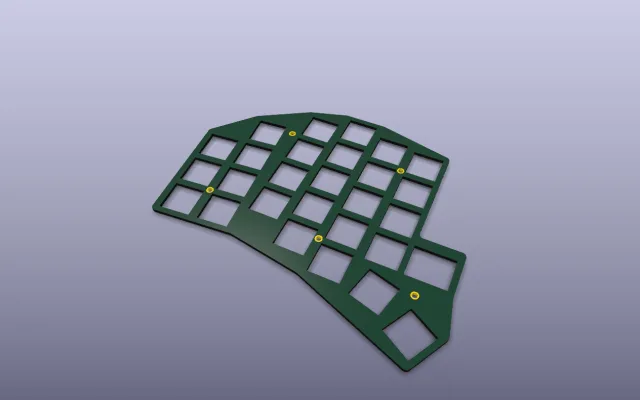
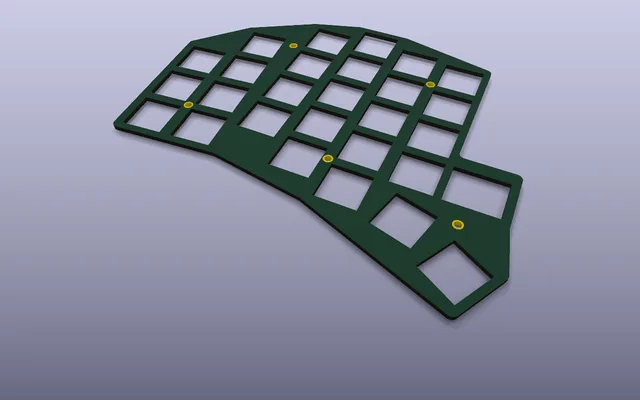
render board thumbnails with one look

Changed region(s): [[0.1562, 0.06, 0.8438, 0.93]]

diff --git a/library/render.py b/library/render.py
@@ -1,13 +1,15 @@
 """Prerender fetched boards into deploy/etch-app/world/boards/<slug>/ (board.glb, thumb.webp, parts.json, meta.json).
 
     python3 library/render.py [--limit N] [--only slug ...] [--workers 3] [--force] [--budget-mb 150]
+    python3 library/render.py --thumbs-only [--only slug ...] [--workers 4]   # thumbnails only
 
 Per board:
   1. kicad-cli pcb export glb (library STEP models, copper, mask, silk; nodes named by refdes)
   2. library/optimize.mjs: dedup + join primitives per material + quantisation + meshopt, no simplification
      (PLAN.md rule 2), with the scene graph kept (no flatten/join/instancing), so every footprint stays its
      own named node; boards over --max-glb-mb (20) after that are skipped, never simplified
-  3. kicad-cli pcb render (raytraced, perspective, 3/4 view) -> 1280x800 PNG -> 640x400 WebP
+  3. kicad-cli pcb render (raytraced, perspective, 3/4 view, one fixed look; zoom/pan from basic-quality probes so
+     every board fills the same share of the frame) -> 1280x800 PNG -> 640x400, +-15% exposure trim -> WebP
   4. parts.json from the .kicad_pcb (+ schematic descriptions), positions measured in the GLB frame
   5. meta.json records models {total, resolved, hidden, missing: [{ref, path, reason}]} (from fetch.py's
      models.json plus every model kicad-cli could not load) and identical (PLAN.md rule 4)
@@ -20,6 +22,7 @@ from __future__ import annotations
 import argparse
 import concurrent.futures as cf
 import datetime as dt
+import json
 import os
 import re
 import shutil
@@ -29,8 +32,12 @@ import time
 from pathlib import Path
 from typing import Any
 
+import numpy as np
+from PIL import Image, ImageFilter
+
 from common import LIB_DIR, BOARDS_JSON, scrub, RENDER_LOG, SRC, WORK, WORLD, kicad_cli, load_json, log, save_json
 from pcbinfo import board_info, footprint_models, glb_bounds, glb_nodes
+from thumbcheck import board_mask, luminance, measure
 
 GLB_FLAGS = [
     "--subst-models",
@@ -91,17 +98,91 @@ def optimize(raw: Path, out: Path, max_bytes: int = MAX_BYTES) -> tuple[bool, st
     return True, ""
 
 
+# One look for every thumbnail: a fixed preset (follow_pcb_editor, read from a canonical .kicad_prl with every
+# layer visible, so no project's own plot or visibility settings leak in), explicit lights, the board's own
+# stackup colours, the same floor/shadow, perspective and camera elevation. Long boards turn 90 degrees about Z
+# so the long axis runs across the frame.
+THUMB_LOOK = ["--side", "top", "--perspective", "--preset", "follow_pcb_editor", "--use-board-stackup-colors",
+              "--background", "opaque", "--floor", "--light-top", "0.30", "--light-bottom", "0.10",
+              "--light-side", "0.17", "--light-camera", "0.22", "--light-side-elevation", "60"]
+THUMB_ROT = ("-40,0,-25", "-40,0,65")
+THUMB_FILL = 0.78    # board bbox / frame, on whichever axis binds
+THUMB_Y = 0.14       # target mean linear luminance of the board pixels
+THUMB_GAIN = 0.15    # exposure normalisation is clamped to +-15%
+PAN_X, PAN_Y = 0.049, -0.040  # image shift (fraction of width / height) per --pan unit at --zoom 1, measured
+CANON_PRL = {"board": {"visible_layers": "ffffffff_ffffffff_ffffffff_ffffffff", "visible_items": [
+    "vias", "footprint_text", "footprints_front", "footprints_back", "footprint_values", "footprint_references",
+    "tracks", "pads", "zones", "shapes", "bitmaps"], "active_layer_preset": ""},
+    "meta": {"filename": "board.kicad_prl", "version": 5}}
+
+
+def _frame(png: Path) -> Image.Image:
+    """Kicad-cli writes 1264x784 for a 1280x800 request; crop the backdrop to 16:10 so the resize keeps shape."""
+    im = Image.open(png).convert("RGB")
+    w, h = im.size
+    cw = min(w, round(h * 1.6))
+    ch = min(h, round(cw / 1.6))
+    x, y = (w - cw) // 2, (h - ch) // 2
+    return im.crop((x, y, x + cw, y + ch))
+
+
 def thumb(cli: Path, env: dict, pcb: Path, work: Path, out: Path, size_mm: list[float]) -> tuple[bool, str]:
+    # a scratch project: the board and its .kicad_pro (text variables), plus the canonical .kicad_prl
+    proj = work / "thumbproj"
+    shutil.rmtree(proj, ignore_errors=True)
+    proj.mkdir(parents=True)
+    (proj / "board.kicad_pcb").symlink_to(pcb.resolve())
+    if (pcb.parent / "board.kicad_pro").exists():
+        shutil.copy2(pcb.parent / "board.kicad_pro", proj / "board.kicad_pro")
+    (proj / "board.kicad_prl").write_text(json.dumps(CANON_PRL))
+    board = proj / "board.kicad_pcb"
+    rot = THUMB_ROT[1] if size_mm[1] > size_mm[0] * 1.25 else THUMB_ROT[0]
     png = work / "thumb.png"
-    png.unlink(missing_ok=True)
-    cmd = [str(cli), "pcb", "render", "-o", str(png), "--width", str(RENDER_W), "--height", str(RENDER_H),
-           "--side", "top", "--perspective", "--quality", "high", "--use-board-stackup-colors", "--background", "opaque",
-           "--rotate", "-40,0,65" if size_mm[1] > size_mm[0] * 1.25 else "-40,0,-25",  # long axis across the frame
-           "--zoom", "0.8", str(pcb)]
-    p = run(cmd, timeout=600, env=env)
-    if not png.exists():
-        return False, "render: " + (p.stderr or p.stdout)[-300:]
-    q = run(["cwebp", "-quiet", "-q", "82", "-resize", "640", "400", str(png), "-o", str(out)], timeout=120)
+
+    def render(quality: str, zoom: float, pan: tuple[float, float]) -> tuple[bool, str]:
+        png.unlink(missing_ok=True)
+        cmd = [str(cli), "pcb", "render", "-o", str(png), "--width", str(RENDER_W), "--height", str(RENDER_H),
+               *THUMB_LOOK, "--quality", quality, "--rotate", rot, "--zoom", f"{zoom:.4f}",
+               "--pan", f"{pan[0]:.4f},{pan[1]:.4f},0", str(board)]
+        p = run(cmd, timeout=600, env=env)
+        return png.exists(), (p.stderr or p.stdout)[-300:]
+
+    # framing: fast basic-quality probes, measured like the final image, set zoom and pan so the board's bbox
+    # fills THUMB_FILL of the binding axis, centred (the image shift per pan unit scales with zoom)
+    zoom, pan = 0.6, [0.0, 0.0]
+    for _ in range(3):
+        ok, err = render("basic", zoom, tuple(pan))
+        if not ok:
+            return False, "render: " + err
+        m = measure(_frame(png))
+        if m["px"] == 0:
+            break
+        pan[0] -= (m["cx"] - 0.5) / (PAN_X * zoom)
+        pan[1] -= (m["cy"] - 0.5) / (PAN_Y * zoom)
+        zoom = min(20.0, max(0.1, zoom * THUMB_FILL / max(m["fill"], 1e-3)))
+        if abs(m["fill"] - THUMB_FILL) < 0.01 and abs(m["cx"] - 0.5) < 0.01 and abs(m["cy"] - 0.5) < 0.01:
+            break
+    ok, err = render("high", zoom, tuple(pan))
+    if not ok:
+        return False, "render: " + err
+
+    # light exposure normalisation on the board pixels only (feathered mask), backdrop untouched
+    im = _frame(png).resize((640, 400), Image.LANCZOS)
+    rgb = np.asarray(im)
+    mask = board_mask(rgb)
+    if mask.any():
+        gain = float(np.clip(THUMB_Y / max(float(luminance(rgb)[mask].mean()), 1e-4), 1 - THUMB_GAIN, 1 + THUMB_GAIN))
+        a = np.asarray(Image.fromarray((mask * 255).astype(np.uint8)).filter(ImageFilter.GaussianBlur(1.2)),
+                       np.float32)[..., None] / 255
+        f = rgb.astype(np.float32) / 255
+        lin = np.where(f <= 0.04045, f / 12.92, ((f + 0.055) / 1.055) ** 2.4)
+        lin = np.clip(lin * (1 + (gain - 1) * a), 0, 1)
+        f = np.where(lin <= 0.0031308, lin * 12.92, 1.055 * lin ** (1 / 2.4) - 0.055)
+        im = Image.fromarray(np.round(f * 255).astype(np.uint8))
+    small = work / "thumb640.png"
+    im.save(small)
+    q = run(["cwebp", "-quiet", "-q", "82", str(small), "-o", str(out)], timeout=120)
+    shutil.rmtree(proj, ignore_errors=True)
     if q.returncode != 0 or not out.exists():
         return False, "cwebp: " + q.stderr[-200:]
     return True, ""
@@ -241,6 +322,26 @@ def render_board(b: dict, cli: Path, env: dict, kver: str, force: bool, max_byte
             "parts": len(parts), "missing_models": len(models["missing"]), "identical": identical}
 
 
+def rethumb(b: dict, cli: Path, env: dict) -> dict[str, Any]:
+    """--thumbs-only: re-render thumb.webp for an already rendered board; GLB, parts and meta stay as they are."""
+    slug = b["slug"]
+    out = WORLD / "boards" / slug
+    meta = load_json(out / "meta.json", {})
+    pcb = SRC / slug / "board.kicad_pcb"
+    if not meta or not pcb.exists():
+        return {"ok": False, "error": "not rendered yet"}
+    t0 = time.time()
+    work = WORK / (slug + "__thumb")
+    shutil.rmtree(work, ignore_errors=True)
+    work.mkdir(parents=True)
+    th = work / "thumb.webp"
+    ok, msg = thumb(cli, env, pcb, work, th, meta["size_mm"])
+    if ok:
+        shutil.copy2(th, out / "thumb.webp")
+    shutil.rmtree(work, ignore_errors=True)
+    return {"ok": ok, "error": msg, "seconds": round(time.time() - t0, 1)}
+
+
 def world_bytes() -> int:
     return sum(f.stat().st_size for f in WORLD.rglob("*") if f.is_file()) if WORLD.exists() else 0
 
@@ -258,12 +359,22 @@ def main() -> None:
     ap.add_argument("--budget-mb", type=float, default=150.0, help="stop when world/ grows past this")
     ap.add_argument("--max-glb-mb", type=float, default=MAX_BYTES / 1e6,
                     help="skip boards bigger than this after compression")
+    ap.add_argument("--thumbs-only", action="store_true",
+                    help="re-render thumb.webp for boards already in world/ (no GLB, parts or meta changes)")
     args = ap.parse_args()
 
     cli = kicad_cli()
     if not cli:
         raise SystemExit("kicad-cli not found (install KiCad, or set KICAD_CLI)")
     env = kicad_env(cli)
+    if args.thumbs_only:
+        slugs = args.only or sorted(p.parent.name for p in (WORLD / "boards").glob("*/meta.json"))
+        with cf.ThreadPoolExecutor(args.workers) as ex:
+            futs = {ex.submit(rethumb, {"slug": s}, cli, env): s for s in slugs}
+            for fut in cf.as_completed(futs):
+                res = fut.result()
+                log(f"{futs[fut]:55s} " + (f"thumb ok {res['seconds']}s" if res["ok"] else f"SKIP {scrub(res['error'])[:160]}"))
+        return
     ensure_node_libs()
     kver = kicad_version(cli)
     boards = [b for b in load_json(BOARDS_JSON, []) if (SRC / b["slug"] / "board.kicad_pcb").exists()]

diff --git a/library/thumbcheck.py b/library/thumbcheck.py
@@ -1,0 +1,121 @@
+"""Measure board thumbnails (framing + exposure) and lay them out on a contact sheet.
+
+    python3 library/thumbcheck.py stats [slug ...]            # bbox fill and board luminance, plus the spread
+    python3 library/thumbcheck.py sheet OUT.png slug ...      # contact sheet of world/boards/<slug>/thumb.webp
+
+The board mask mirrors explore.js whiteThumb(): the backdrop is a vertical lavender gradient, taken per row from
+the outermost pixels; a pixel is board when it is far from that row's backdrop colour and is not just the backdrop
+darkened (the contact shadow).
+"""
+
+from __future__ import annotations
+
+import statistics
+import sys
+from pathlib import Path
+
+import numpy as np
+from PIL import Image, ImageDraw
+
+sys.path.insert(0, str(Path(__file__).resolve().parent))
+from common import WORLD  # noqa: E402
+
+HI = 46.0  # same colour distance explore.js treats as "pure board"
+
+
+def board_mask(rgb: np.ndarray) -> np.ndarray:
+    p = rgb.astype(np.float32)
+    h, w, _ = p.shape
+    edge = np.stack([p[:, 0], p[:, w - 1]], 1)  # (h, 2, 3)
+    ref = np.median(p[: max(4, h // 20), [0, w - 1]].reshape(-1, 3), 0)
+    bg = np.empty((h, 3), np.float32)
+    last = ref
+    for y in range(h):  # rows where the board touches an edge keep the last good colour
+        d = np.abs(edge[y] - last).sum(1)
+        i = int(d.argmin())
+        if d[i] < 24:
+            last = edge[y, i]
+        bg[y] = last
+    b = bg[:, None, :]
+    dist = np.sqrt(((p - b) ** 2).sum(2))
+    bb = (b * b).sum(2)
+    k = (p * b).sum(2) / np.maximum(bb, 1)
+    off = np.sqrt(((p - k[..., None] * b) ** 2).sum(2)) / np.maximum(1, k * np.sqrt(bb))
+    shadow = (k > 0.42) & (k < 1.06) & (off < 0.035)
+    return (dist >= HI) & ~shadow
+
+
+def luminance(rgb: np.ndarray) -> np.ndarray:
+    p = rgb.astype(np.float32) / 255.0
+    lin = np.where(p <= 0.04045, p / 12.92, ((p + 0.055) / 1.055) ** 2.4)
+    return lin @ np.array([0.2126, 0.7152, 0.0722], np.float32)  # linear-light Y, 0..1
+
+
+def measure(img: Image.Image) -> dict:
+    rgb = np.asarray(img.convert("RGB"))
+    m = board_mask(rgb)
+    h, w = m.shape
+    ys, xs = np.nonzero(m)
+    if not len(xs):
+        return {"fill": 0.0, "fw": 0.0, "fh": 0.0, "cx": 0.5, "cy": 0.5, "lum": 0.0, "px": 0}
+    # ignore stray specks: 0.2 / 99.8 percentiles instead of the raw extremes
+    x0, x1 = np.percentile(xs, [0.2, 99.8])
+    y0, y1 = np.percentile(ys, [0.2, 99.8])
+    fw, fh = (x1 - x0 + 1) / w, (y1 - y0 + 1) / h
+    return {"fill": float(max(fw, fh)), "fw": float(fw), "fh": float(fh), "cx": float((x0 + x1) / 2 / w),
+            "cy": float((y0 + y1) / 2 / h), "lum": float(luminance(rgb)[m].mean()), "px": int(m.sum())}
+
+
+def thumb_path(slug: str) -> Path:
+    return WORLD / "boards" / slug / "thumb.webp"
+
+
+def spread(rows: list[dict], key: str) -> str:
+    v = [r[key] for r in rows]
+    return (f"{key}: min {min(v):.3f} max {max(v):.3f} mean {statistics.mean(v):.3f} "
+            f"sd {statistics.pstdev(v):.3f}")
+
+
+def stats(slugs: list[str]) -> list[dict]:
+    rows = []
+    for s in slugs:
+        r = measure(Image.open(thumb_path(s)))
+        r["slug"] = s
+        rows.append(r)
+    return rows
+
+
+def sheet(paths: list[Path], out: Path, cols: int = 4, tw: int = 320, th: int = 200) -> None:
+    rows = (len(paths) + cols - 1) // cols
+    cap = 16
+    im = Image.new("RGB", (cols * tw, rows * (th + cap)), "white")
+    d = ImageDraw.Draw(im)
+    for i, p in enumerate(paths):
+        x, y = (i % cols) * tw, (i // cols) * (th + cap)
+        t = Image.open(p).convert("RGB")
+        r = measure(t)
+        im.paste(t.resize((tw, th), Image.LANCZOS), (x, y))
+        d.text((x + 4, y + th + 2), f"{p.parent.name[:34]}  fill {r['fill']:.2f}  Y {r['lum']:.3f}", fill="black")
+    out.parent.mkdir(parents=True, exist_ok=True)
+    im.save(out)
+
+
+def main() -> None:
+    if len(sys.argv) < 2 or sys.argv[1] not in ("stats", "sheet"):
+        raise SystemExit(__doc__)
+    if sys.argv[1] == "sheet":
+        sheet([thumb_path(s) if not s.endswith((".webp", ".png")) else Path(s) for s in sys.argv[3:]],
+              Path(sys.argv[2]))
+        return
+    slugs = sys.argv[2:] or sorted(p.parent.name for p in (WORLD / "boards").glob("*/thumb.webp"))
+    rows = stats(slugs)
+    for r in rows:
+        print(f"{r['slug'][:60]:60s} fill {r['fill']:.3f} (w {r['fw']:.3f} h {r['fh']:.3f}) "
+              f"centre {r['cx']:.2f},{r['cy']:.2f} Y {r['lum']:.3f}")
+    print(f"n={len(rows)}")
+    for k in ("fill", "lum", "cx", "cy"):
+        print(spread(rows, k))
+
+
+if __name__ == "__main__":
+    main()
